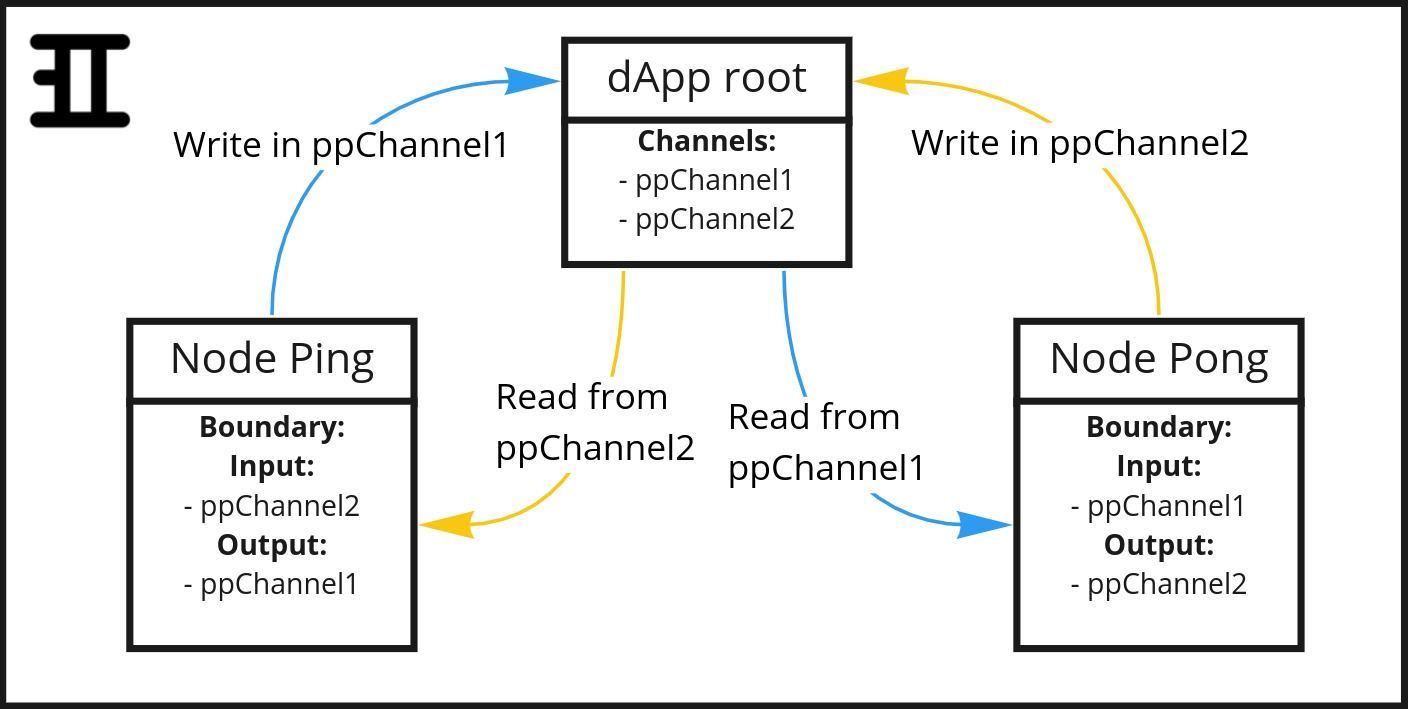
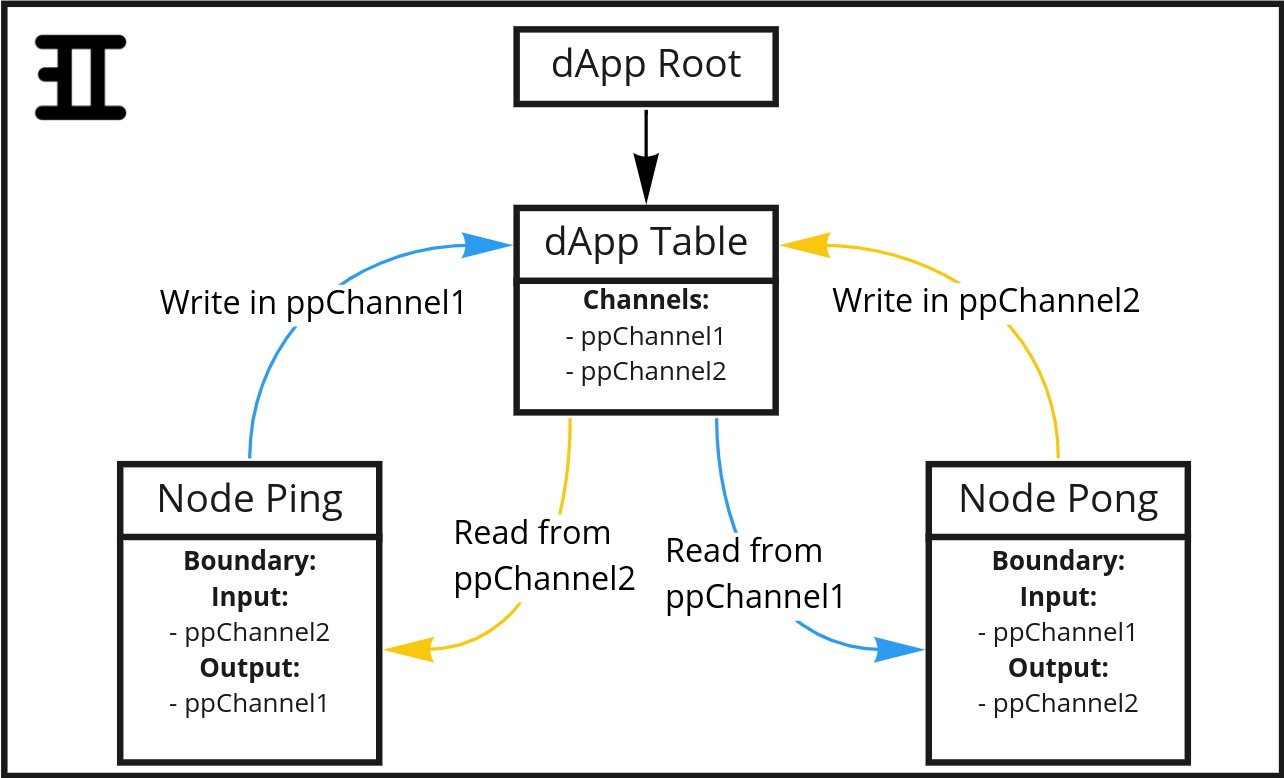
Updated pingpong_demo to be a better usage example

diff --git a/doc/workspace-init.md b/doc/workspace-init.md
@@ -1,13 +1,19 @@
+TODO:
+1) Fix Ping and Pong code so it uses the latest version of ReadMessage (and documento how it works)
+2) Run pingpong demo and print the results (apply results and it working in the cluster)
+3) Record a video of everything
+
 # Workspace Initialization
-This document is a detailed guide on how to create an application and deploy an Inspr environment that cointains it into a Kubernetes cluster.  
+This document is a detailed guide on how to create an application and deploy an Inspr workspace that cointains it into a Kubernetes cluster.  
 
-**It is mandatory to have [Docker](https://docs.docker.com/get-docker/), [Kubernetes](https://kubernetes.io/docs/tasks/tools/), [Inspr](helm-install.md) and [Inspr CLI](cli-install.md) installed. [Skaffold](https://skaffold.dev/docs/install/) can also be very useful.**
+**It is mandatory to have [Docker](https://docs.docker.com/get-docker/), [Kubernetes](https://kubernetes.io/docs/tasks/tools/), [Inspr](helm_installation.md) and [Inspr CLI](cli-install.md) installed.**  
+Also, this tutorial will be using the Message Broker [Apache Kafka](https://kafka.apache.org/). You can see how to install it in your cluster [here](https://bitnami.com/stack/kafka/helm). 
 
-The Inspr environment that will be created through this guide contains two applications that communicate with each other:
+The Inspr workspace that will be created through this guide contains two applications that communicate with each other:
 - **Ping**, that writes the string "Ping!" into a Channel, and reads what's written by the other application in another Channel.
 - **Pong**, that writes the string "Pong!" into a Channel, and reads what's written by the other application in another Channel.    
 
-The tree-like structure of this Inspr environment will be similar to this:  
+The tree-like structure of this Inspr workspace will be similar to this:  
 
 ![structure](img/pingpong-app.jpg)
 
@@ -17,7 +23,7 @@ First of all, let's create the folders in which we will store all of our files (
 
 Create a folder called "pingpong_demo", and inside of it create other three folders: "ping", "pong" and "yamls".  
 
-The first two, "ping" and "pong", will store the applications code and their respective Dockerfiles. The last one, "yamls", will store all the *.yaml* files that define the structures which will be used to create the Inspr environment in the cluster.  
+The first two, "ping" and "pong", will store the applications code and their respective Dockerfiles. The last one, "yamls", will store all the *.yaml* files that define the structures which will be used to create the Inspr workspace in the cluster.  
 
 The following command creates the wanted folder structure:
 ```
@@ -176,21 +182,23 @@ CMD go run pingpong_demo/pong/pong.go
 ```
 
 ### Docker Image deployment
-After creating the Dockerfiles, we must build the Docker Images and push each of them into the cluster, so they are available to be used in the Inspr environment.  
+After creating the Dockerfiles, we must build the Docker Images and push each of them into the cluster, so they are available to be used in the Inspr workspace.  
 
 First, from "/pingpong_demo", go into "/ping" folder:
 ```
 cd ping
 ```
 
-Then we must build the Docker Image by using the Dockerfile previously created, applying the tag `latest` to it:
+In the next steps, it's important to have a live [container registry](https://cloud.google.com/container-registry) up and running, so it's possible to store and use the images that will be built.
+
+Then we must build the Docker Image by using the Dockerfile previously created. You can apply a tag to it by adding `:TAG_NAME`, if desired:
 ```
-docker build -f Dockerfile -t YOUR-CLUSTER-URL/app/ping:latest
+docker build -f Dockerfile -t PING_IMAGE_TAG/app/ping:TAG_NAME
 ```
 
-Finally, we push the builded image into the cluster:
+Finally, we push the builded image into the cluster, where **PING_IMAGE_TAG is a reference to the container registry**:
 ```
-docker push YOUR-CLUSTER-URL/app/ping:latest
+docker push PING_IMAGE_TAG/app/ping:latest
 ```
 
 Now the same must be done to Pong. Go back to "/pingpong_demo" folder, and access "/pong" folder:
@@ -199,19 +207,228 @@ cd ..
 cd pong
 ```
 
-Build the Docker Image by using the Dockerfile previously created, applying the tag `latest` to it:
+Build the Docker Image by using the Dockerfile previously created (and applying a tag to it, if desired). Similarly, **PONG_IMAGE_TAG is a reference to the container registry**:
 ```
-docker build -f Dockerfile -t YOUR-CLUSTER-URL/app/pong:latest
+docker build -f Dockerfile -t PONG_IMAGE_TAG/app/pong:TAG_NAME
 ```
 
 Push the builded image into the cluster:
 ```
-docker push YOUR-CLUSTER-URL/app/pong:latest
+docker push PONG_IMAGE_TAG/app/pong:TAG_NAME
 ```  
 
-**Alternatively, you can use Skaffold to do the steps described above, in a much simpler way.**  
-If you have Skaffold installed, just go into the main folder "/pingpong_demo" and run the build command:
+**Alternatively, you can create a [Makefile](https://opensource.com/article/18/8/what-how-makefile) that will do the previous steps for you.**  
+Inside "/pingpong_demo" folder, create a new file called "Makefile:
 ```
-skaffold build
+touch Makefile
 ```
-And it's done!
+The Makefile should contain the same Docker commands that you'd use to build and push Ping and Pong Docker images. The gain here is that instead of writing and executing four different commands, you just execute the Makefile. It should look like this:
+```
+build:
+	docker build -t PING_IMAGE_TAG/app/pong:TAG_NAME -f ping/Dockerfile
+	docker push PING_IMAGE_TAG/app/pong:TAG_NAME
+	docker build -t PONG_IMAGE_TAG/app/pong:TAG_NAME -f pong/Dockerfile
+	docker push PONG_IMAGE_TAG/app/pong:TAG_NAME
+```
+
+And then execute the Makefile through the terminal:
+```
+make
+```
+
+## Creating Inspr Workspace
+
+Now that we have our applications implemented and their Docker images available in the cluster, we're good to go and build Inspr structures to use what we created.
+
+### YAML Files
+First of all, from "/pingpong_demo" we access the folder "/yamls" created previously.
+```
+cd yamls
+```
+And within this folder we will create the *.yaml* files which describe each of the Inspr structures that will be built inside the cluster. This part of the tutorial wont take a closer look at every minimum detail on writing the YAML files, but you can find more information about it [here](yamls.md).
+
+**1) dApp YAMLs**  
+The first file to be created is *table.yaml*, which is the dApp that will contain all the other structures (Ping and Pong Nodes, Channels and Channel Type):
+```
+touch table.yaml
+```
+
+As it's described in Inspr YAMLs documentation, we must specify the kind, apiVersion and then the dApp information. This file have a really simple dApp definition, for its the base on which everything else will be created on. It should be like this:  
+```
+kind: dapp
+apiVersion: v1
+
+meta:
+  name: ppTable
+```
+
+The next file to be created is *ping.app.yaml*, in which we describe the Node that contains Ping. For better organization, let's create a new folder inside of "/yamls" called "nodes", inside of which we will store the Nodes YAMLs:
+```
+mkdir nodes
+touch nodes/ping.app.yaml
+```
+
+Then, insite of *ping.app.yaml* we must specify the kind, apiVersion and then the Node information (such as name, boundaries, image, etc.).  
+It should look like this:
+```
+kind: dapp
+apiVersion: v1
+
+meta:
+  name: ping
+  parent: ppTable
+spec:
+  node:
+    spec:
+      replicas: 1
+      environment:
+        SUPER_SECRET_0001: "false"
+      image: PING_IMAGE_TAG/app/ping:TAG_NAME
+  boundary:
+    input:
+      - ppChannel2
+    output:
+      - ppChannel1
+```
+The `image` field must be a reference to the same image built in the step "Docker Image deployment". Also, the `environment` field is defined just so we can see that the environment variable "SUPER_SECRET_0001" will be created in the cluster, inside Ping's deployment.  
+
+Now, we do the same for Pong:
+```
+touch nodes/pong.app.yaml
+```
+And *pong.app.yaml* should look like this:
+```
+kind: dapp
+apiVersion: v1
+
+meta:
+  name: pong
+  parent: ppTable
+spec:
+  node:
+    spec:
+      image: PONG_IMAGE_TAG/app/pong:TAG_NAME
+  boundary:
+    input:
+      - ppChannel1
+    output:
+      - ppChannel2
+```
+Notice that we didn't specify the number of replicas for Pong. This is to show that, **if not specified, the default number of replicas is created, which is one.**  
+
+**2) Channel YAMLs**  
+As it can be seen in Ping and Pong YAMLs, there are two Channels that need to be created. Similar to dApp, we must specify the kind, apiVersion and then the Channel information. Notice that the Channels annotations refer to Kafka attributes.  
+
+Let's proceed to create "/channels" folder inside of "/yamls", and then create *ch1.yaml*:
+```
+mkdir channels
+touch channels/ch1.yaml
+```
+
+It's content should be:
+```
+kind: channel
+apiVersion: v1
+
+meta:
+  name: ppChannel1
+  parent: ppTable
+  annotations:
+    kafka.replication.factor: 1
+    kafka.partition.number: 2
+spec:
+  type: ppCType1
+```
+
+Now we do the same for *ch2.yaml*:
+```
+touch channels/ch2.yaml
+```
+
+And it's content should be:
+```
+kind: channel
+apiVersion: v1
+
+meta:
+  name: ppChannel2
+  parent: ppTable
+  annotations:
+    kafka.replication.factor: 1
+    kafka.partition.number: 2
+spec:
+  type: ppCType1
+```  
+
+**3) Channel Type YAML**
+Both Channels use the same Channel Type to define the kind of message that goes through them. So, again, we must specify the kind, apiVersion and then the Channel Type information.  
+First we create "/ctypes" folder and *ct1.yaml*:
+```
+mkdir ctypes
+touch ctypes/ct1.yaml
+```
+
+And it's content should be:
+```
+kind: channeltype
+apiVersion: v1
+
+meta:
+  name: ppCType1
+  parent: ppTable
+schema: yamls/ctypes/schema.avsc
+```
+
+Notice that the `schema` field is actually a reference to an **Avro Schema** file. By defining it like this, when a Channel Type is created Inspr searches for the file and injects its value into the `schema`. You can find more information on how schemas should be created to be used in Inspr [here](schemas_and_types.md).  
+To make everythink work properly, let's create *schema.avsc*:  
+```
+touch ctypes/schema.avsc
+```
+
+As we defined in our Ping and Pong applications, the type of information that they will send and receive is just a simple string. To do so, *schema.avsc* content should be:
+```
+{"type":"string"}
+```
+
+After creating all of these folders and files, you should have this:
+```
+pingpong_demo
+├── Makefile
+├── ping
+│   ├── Dockerfile
+│   └── ping.go
+├── pong
+│   ├── Dockerfile
+│   └── pong.go
+└── yamls
+    ├── channels
+    │   ├── ch1.yaml
+    │   └── ch2.yaml
+    ├── ctypes
+    │   ├── ct1.yaml
+    │   └── schema.avsc
+    ├── nodes
+    │   ├── ping.app.yaml
+    │   └── pong.app.yaml
+    └── table.yaml
+```
+
+### Deploying dApps, Channels and Channel Type
+Finally, now that we have Ping and Pong images in the cluster and all Inspr workspace structures well-defined in YAML files, we can deploy everything that we created and see it working in our cluster.  
+
+From within "/pingpong_demo" folder, we apply the YAML files by using **Inspr CLIs** commands. The files should be applied in the following order:  
+1) dApp `ppTable`
+2) Channel Type `ppCType1`
+3) Channels `ppChannel1` and `ppChannel2`
+4) Nodes `ping` and `pong`  
+
+You can do so by running the following commands from within "/pingpong_demo" folder:
+```
+inspr apply -f yamls/table.yaml
+inspr apply -k yamls/ctypes
+inspr apply -k yamls/channels
+inspr apply -k yamls/nodes
+```
+To learn more about Inspr CLI, check [this](cli_commands.md) documentation.  
+
+If everything worked fine, the Inspr Workspace changelog will have printed something similar to this in your terminal:  
